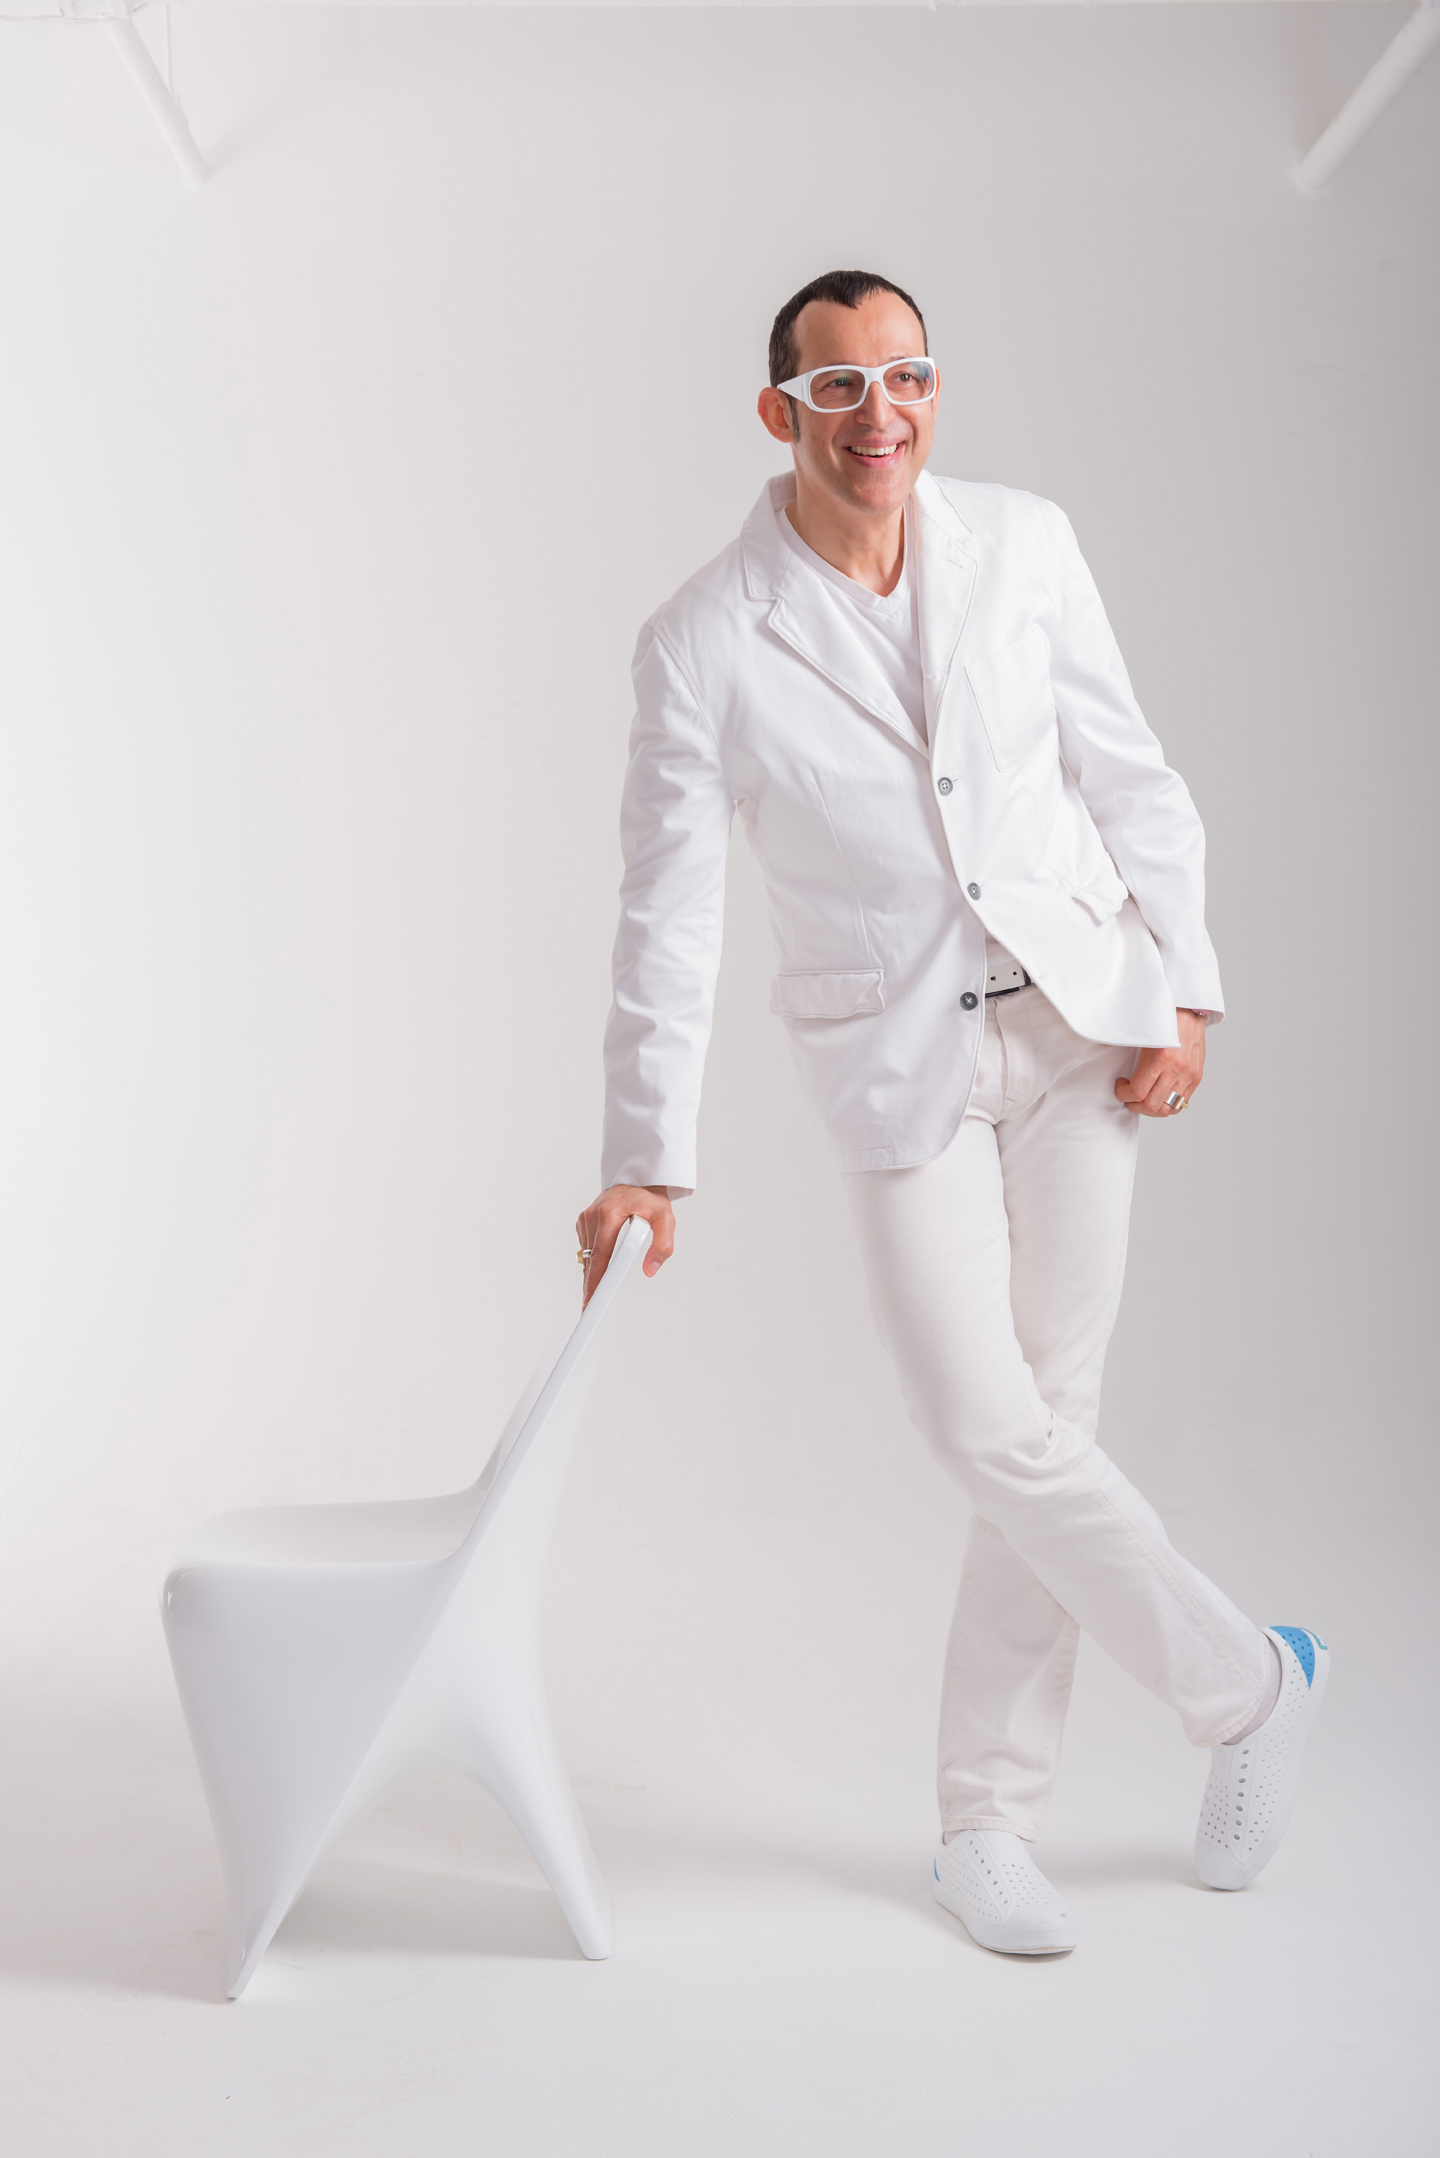
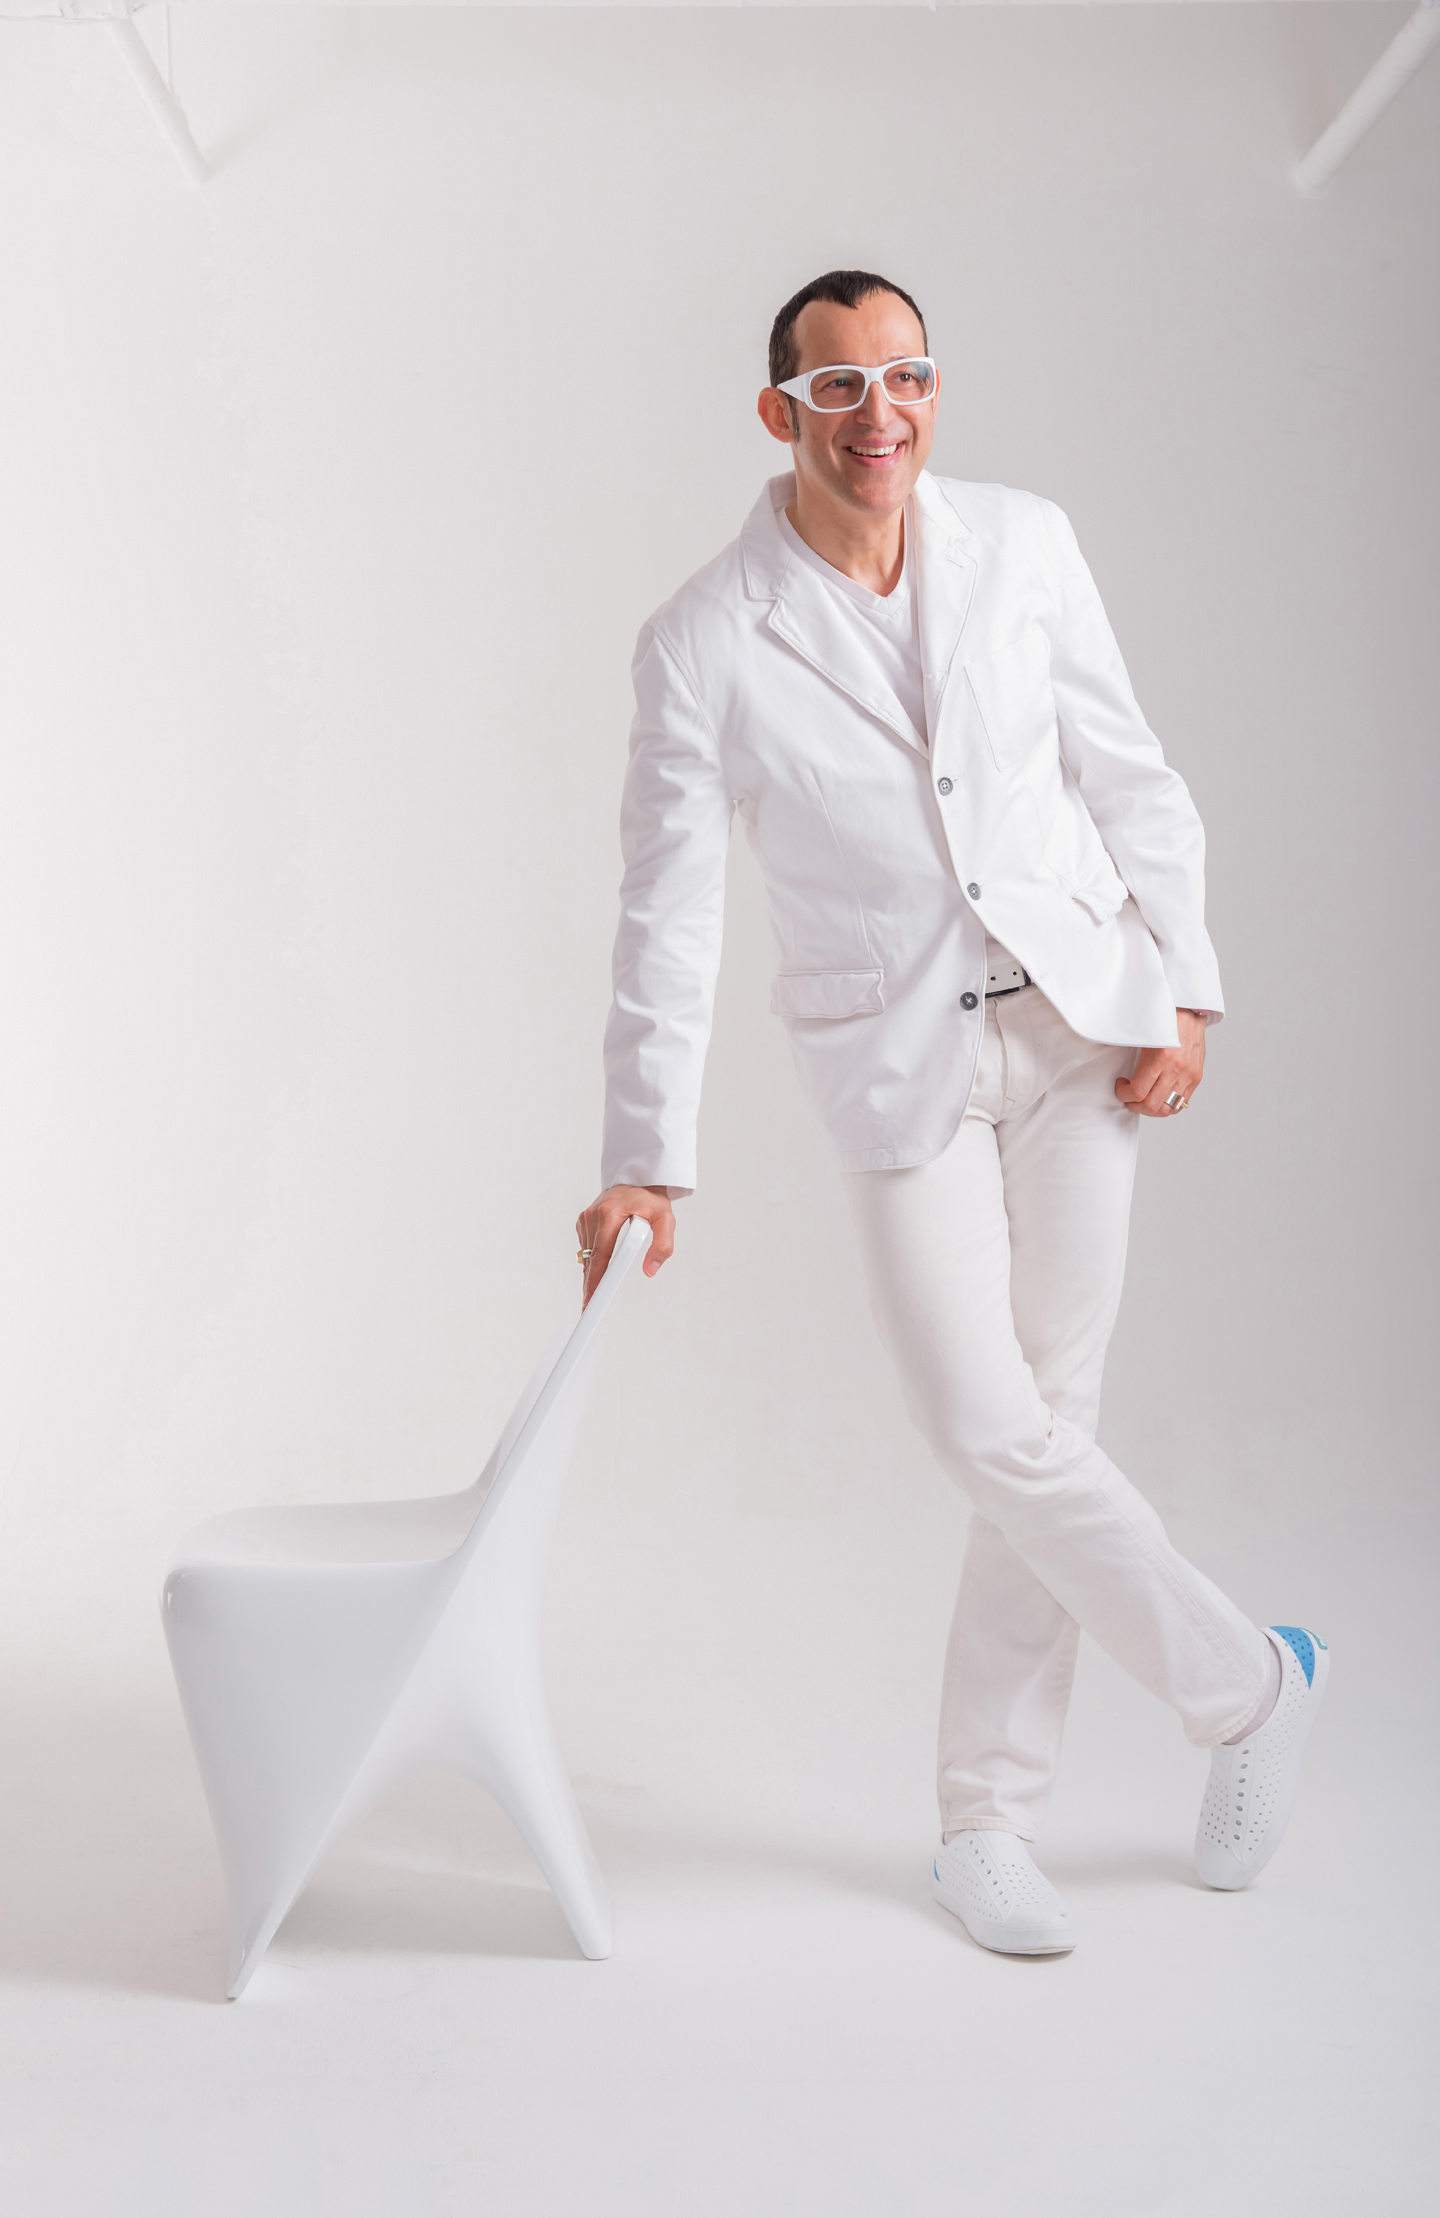
removed the About pic, fixed the alignment of the text in the Work tab for large screen

diff --git a/class4/pages/About.html b/class4/pages/About.html
@@ -30,12 +30,15 @@
 </nav>
 
 
+<div class="main">
 
-<div class="hero-image">
+    
         <div class="fix">
                 <h1 >Karim </br>Rashid </h1>
-            </div>
-<div class="Bio">
+        </div>
+
+
+    <div class="Bio">
     
     <Ul>
         <li><a href="#">Events</a></li>
@@ -44,7 +47,8 @@
     </Ul>
 
     <div class="about"><p>His award winning designs include luxury goods for Christofle, Veuve Clicquot, and Alessi, democratic products for Umbra, Bobble, and 3M, furniture for Bonaldo and Vondom, lighting for Artemide and Fontana Arte, high tech products for Asus and Samsung, surface design for Marburg and Abet Laminati, brand identity for Citibank and Sony Ericsson and packaging for Method, Paris Baguette, Kenzo and Hugo Boss. Karim’s touch expands beyond product to interiors such as the Morimoto restaurant, Philadelphia; Semiramis hotel, Athens; nhow hotel, Berlin; Universita Metro Station, Naples as well as exhibition design for Deutsche Bank and Audi. Karim’s work is featured in 20 permanent collections and he exhibits art in galleries world wide. Karim is a perennial winner of the Red Dot award, Chicago Athenaeum Good Design award, I. D. Magazine Annual Design Review, IDSA Industrial Design Excellence award. Karim is a frequent guest lecturer at universities and conferences globally disseminating the importance of design in everyday life. He holds Honorary Doctorates from the OCAD, Toronto and Corcoran College of Art & Design, Washington. Karim has been featured in magazines and books including Time, Vogue, Esquire, GQ, Wallpaper, and countless more. Karim’s latest monograph, XX (Design Media Publishing, 2015), features 400 pages of work selected from the last 20 years. Other books include From The Beginning, an oral history of Karim’s life and inspiration (Forma, 2014); Sketch, featuring 300 hand drawings (Frame Publishing, 2011); KarimSpace, featuring 36 of Karim’s interior designs (Rizzoli, 2009); Design Your Self, Karim’s guide to living (Harper Collins, 2006); Digipop, a digital exploration of computer graphics (Taschen, 2005); Compact Design Portfolio (Chronicle Books 2004); as well as two monographs, titled Evolution (Universe, 2004) and I Want to Change the World (Rizzoli, 2001). In his spare time Karim’s pluralism flirts with art, fashion, and music and is determined to creatively touch every aspect of our physical and virtual landscape.</p>
-</div>
+
+
 </div>
 </div>
 

diff --git a/class4/style.css b/class4/style.css
@@ -64,8 +64,13 @@ width: 25%;
     color: black;
     text-decoration: none;
     font-family: sans-serif;
-    font-size: 22px;
+    
 }
+.bio ul li a {
+    font-size: 20px;
+}
+
+
 
 .bio h1 {
     font-size: 27px;
@@ -161,9 +166,9 @@ h2 {
 
 
 .bio {
-    margin-top: 50px;
-    position: relative;
+    position: absolute;
     z-index: 5;
+    top: 0px;
 }
 
 
@@ -172,7 +177,7 @@ h2 {
     text-align: center;
     margin-top: 20px;
     color: #EDB1C1;
-    font-size: 50px;
+    font-size: 49px;
 }
 
 .bio h2 {
@@ -181,18 +186,18 @@ h2 {
 .bio p {
     border-top: 2px solid black;
     border-bottom: 1px solid black;
-    padding: 121px 20px;
+    padding: 58px 21px;
     margin-top: 0px;
     letter-spacing: 1px;
-    line-height: 68px;
+    line-height: 45px;
     font-family: sans-serif;
-    font-size: 26px;
+    font-size: 22px;
     font-weight: 500;
 }
 
 .bio ul {
     display: block;
-   padding-top: 364px;
+    padding-top: 400px;
 }
 
 .img-container {
@@ -200,12 +205,6 @@ h2 {
 }
 
 
-.hero-image {
-    background-image: url("pictures/7.jpg");
-    background-position: -659px -204px;
-    background-repeat: no-repeat;
-    background-color:#d2d1d6;
-}
 
 .fix {
     position: fixed;
@@ -309,3 +308,17 @@ font-family: cursive;
 .right {
     float: right;
 }
+
+.hero-image{
+    position: relative;
+    
+}
+
+.hero-image img { 
+width: 200%;
+}
+
+.about p {
+    text-indent: 40px;
+}
+

diff --git a/class4/pages/Work.html b/class4/pages/Work.html
@@ -51,8 +51,8 @@
             <div class="img-container">
                 <img src="../pictures/1.jpg" alt="ORGANIC DESIGN STOOL">
             </div>
-                <div class="text">
-                <h1>Baby Bite Stool </h1>
+                <div class="text" id="Text-m1">
+                <h1 class="min">Baby Bite Stool </h1>
                     <h2>Designed for XO</h2>
                     <p><strong><em>B</em>aby Bite</strong> is a zoomorphic object.
                     It is a stool, a side table or a table base, all in one.
@@ -100,7 +100,7 @@
             <div class="img-container">
                 <img src="../pictures/10.jpg" alt="Doux">
                </div>
-               <div class="text">
+               <div class="text" id="Text-m">
                     <h1>Doux Lounge Chair</h1>
                     <h2>Designed for Vondom</h2>
                     <p> <strong><em>D</em>oux</strong>, a collection of different pieces derives directly from freehand sketches: organic, spontaneous, friendly, and colourful. The zoomorphic forms are to engage, to touch, to sit, to enjoy.</p>

diff --git a/class4/layout.css b/class4/layout.css
@@ -71,7 +71,7 @@
     }
    
     .bio p {
-        padding: 121px 125px;
+        padding: 121px 40px;
     }
 
     #LastText {
@@ -87,12 +87,8 @@
         margin-top: 105px;
     }
 
-    .hero-image {
-        background-position: center;
-    }
-
     .bio ul {
-        padding: 332px 0px 15px;
+        padding: 818px 0px 15px;
     }
 
     .fix h1 {
@@ -146,6 +142,14 @@
 .mar0 .content {
     margin: 0px;
 }
+
+.bio p {
+    line-height: 67px;
+}
+.bio ul {
+    padding: 600px 0px 15px;
+}
+
 }
 
 
@@ -214,4 +218,27 @@
     .mar0 .content {
         margin: 0px;
     }
+
+    .bio p {
+        padding: 121px 50px;
+        font-size: 26px;
+    }
+    .bio ul li a {
+        font-size: 26px;
+    }
+    .bio p {
+        line-height: 86px;
+    }
+    .about p {
+        text-indent: 40px;
+    }
+
+    #Text-m1 p {
+        padding-top: 20px;
+    }
+
+    #Text-m p {
+        margin-top: 38px;
+    }
+   
 }
